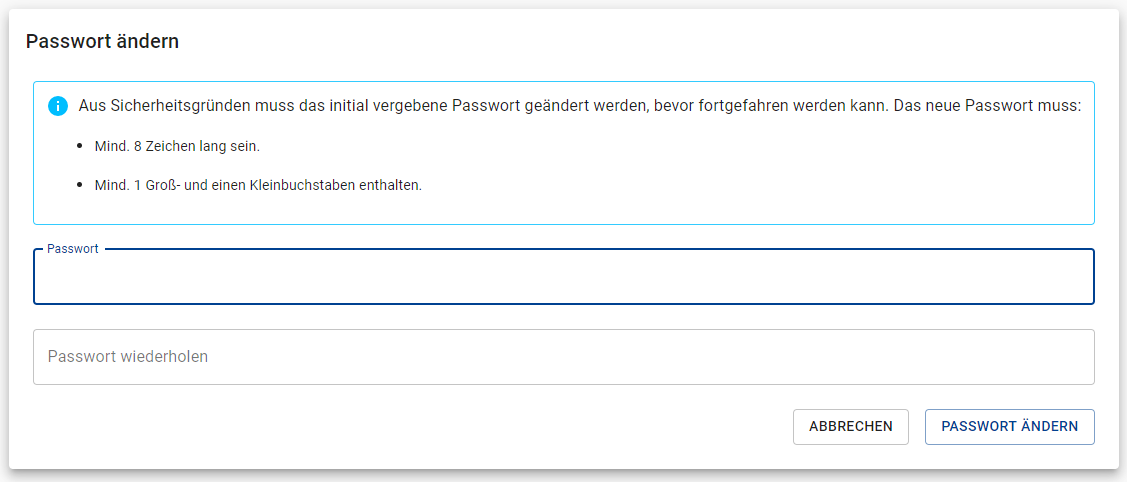
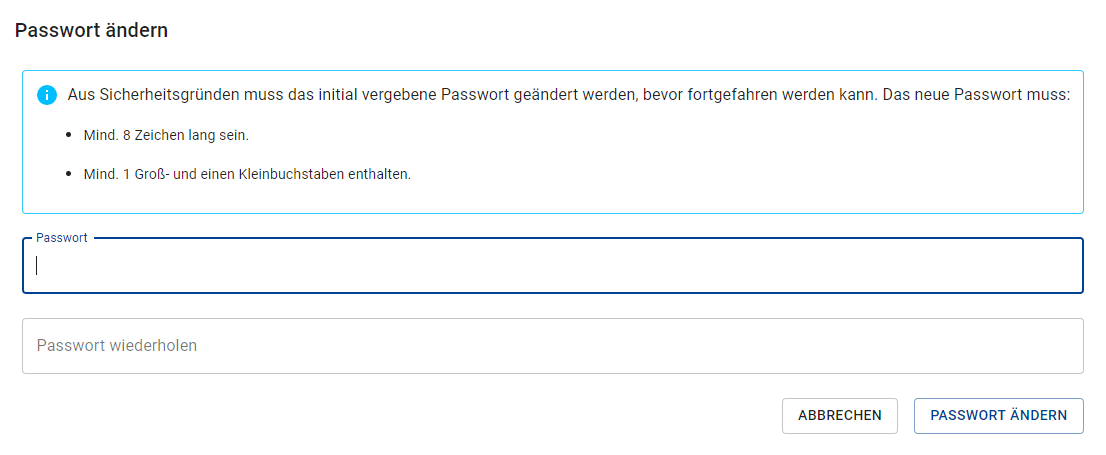
Add border around images.
This also updates the image of the change pw form.

Changed region(s): [[0.0, 0.0308, 1.0, 1.0], [0.0615, 0.3692, 0.3689, 0.4], [0.0615, 0.2769, 0.2459, 0.3385]]

diff --git a/docs/src/css/custom.css b/docs/src/css/custom.css
@@ -17,6 +17,11 @@
   --ifm-code-font-size: 95%;
 }
 
+img {
+  border-radius: var(--ifm-alert-border-radius);
+  border: var(--ifm-alert-border-width) solid var(--ifm-toc-border-color);
+}
+
 .docusaurus-highlight-code-line {
   background-color: rgb(72, 77, 91);
   display: block;
